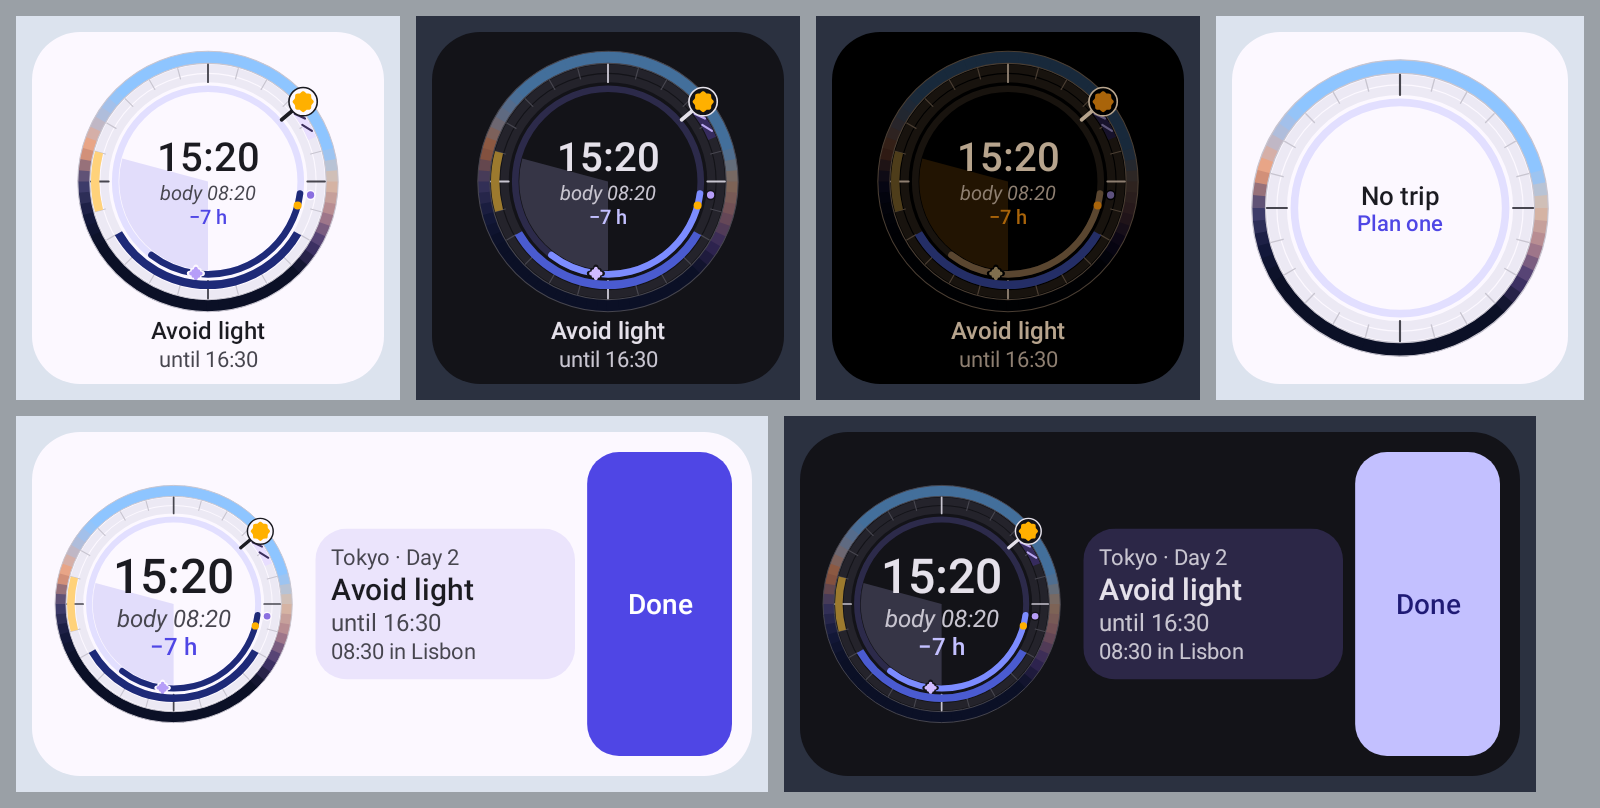
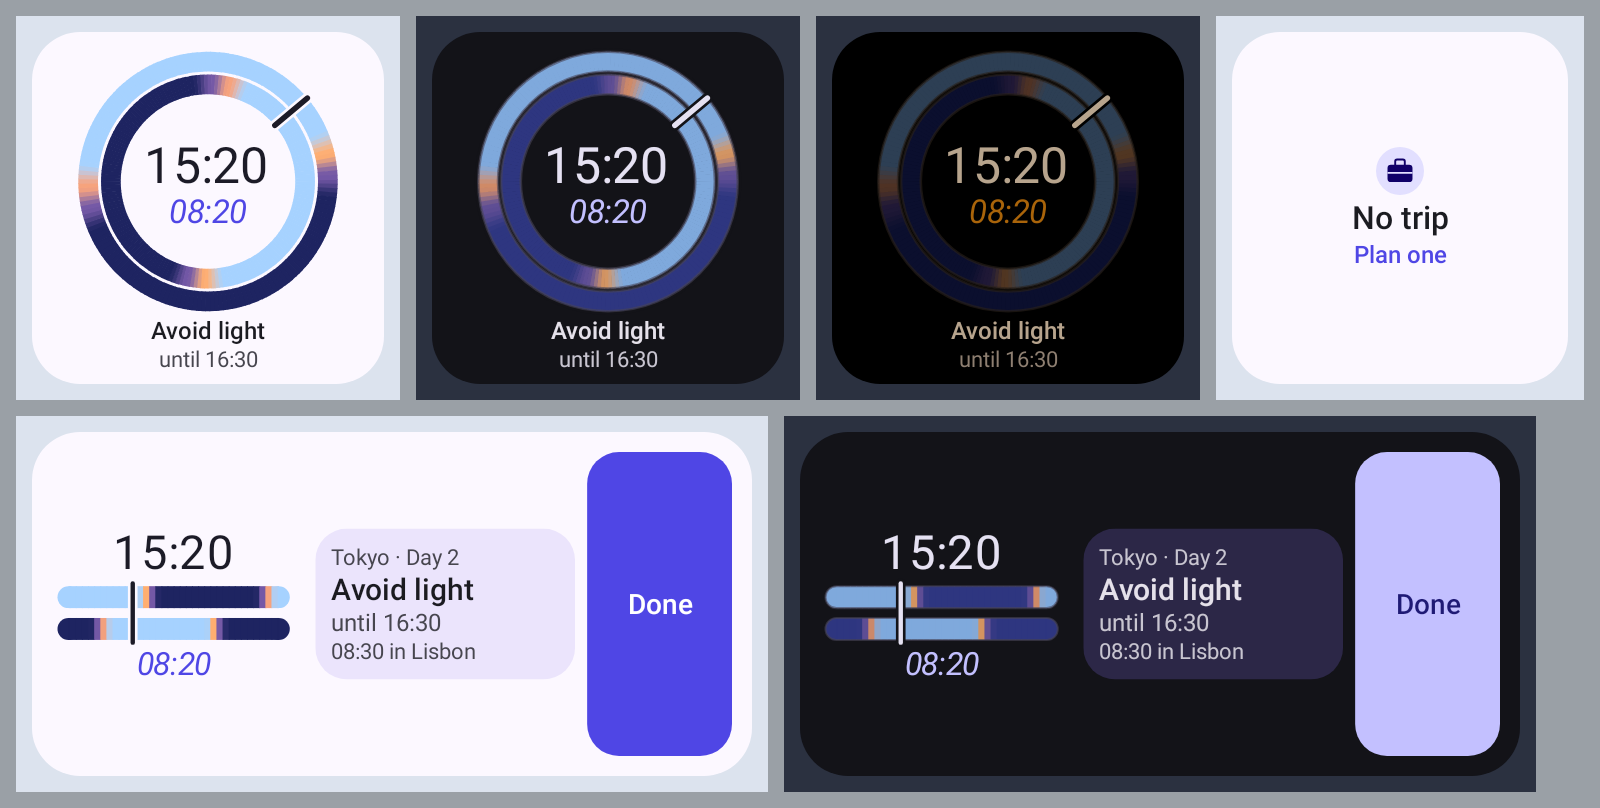
Docs: the widget dial in surfaces, design §A, the user guide and README
Refresh the widget screenshots, regenerate the user guide's Two Clocks image,
document the dial fit and contrast tests, and drop the orphaned
dial-widget-fonts sheet (remote_dial_vs_app.png replaces it).

diff --git a/docs/design.md b/docs/design.md
@@ -250,12 +250,21 @@ once you're adapted the two rings are identical.
   block boundaries, and a dot keeps the real now. Tap the centre to return.
 - **A11y:** TalkBack: "14:20 local. Your body clock is 09:56. Now: see bright light until 15:00. Next: …" Custom
   actions *Next block*, *Previous block*, *Back to now*.
-- **Spec and renderer:** `TwoSkies.spec()` in `dial/spec` is pure Kotlin (no Android UI types) and returns a list of
-  `DialOp`s in dp. `drawDialSpec()` paints them with Compose; a Remote Compose widget can paint the same list. Notes
-  for that port: the sky rings are `SweepRing`s with `segments()` (Remote Compose has no sweep shader from Kotlin),
-  curved text needs `drawTextOnCircle` (to verify), only the needle animates, and widgets use the system font. See
-  `dial_widget_fonts.png` in the designsystem goldens for the app font next to the system font. Small widgets get a
-  separate "Two strips" layout (Phase 2 of #46).
+- **Spec and renderers:** `TwoSkies.spec()` in `dial/spec` is pure Kotlin (no Android UI types) and returns a list of
+  `DialOp`s in dp. `drawDialSpec()` paints them with Compose in the app; the Two Clocks widget replays the same list
+  into a Remote Compose canvas (`widget/…/rc/RemoteDialSpec.kt`). The widget port draws the sky rings and bars as
+  constant-colour segments (Remote Compose has no shader from Kotlin), sets curved and tracked text glyph by glyph
+  (`drawTextOnCircle` is still unverified on a real launcher), rounds weights to regular or bold (the system font's
+  four styles), and leaves out the wash behind the needle. Only the needle moves with the launcher's clock, and the
+  readouts are written from it. A host can set a text floor (`minText`, 7 dp on widgets): the AM/PM marker and the
+  ring labels hold it and the digits give way. `remote_dial_vs_app.png` in the widget goldens shows the two
+  renderers side by side.
+- **Two strips** (`TwoStrips.spec()`): the same two skies as two horizontal bars over a window round now, local on
+  top and body below, with a now line across both. Widgets use them where a round dial gets too small to read: the
+  1×1, the 2×1 and 4×1 rows and the 2×2 landscape card. The app keeps Two skies as its hero. Levels go by the box:
+  under 150 dp wide is Glance (local time, the bars, and body time where it fits), wide boxes are Simple (bar labels,
+  the jet lag in a pill and, on a tall enough box, the advice with its name beside its capsule), and 280×128 dp up is
+  Full (narration). A glyph never shows without its name.
 
 ### B. Day timeline ("Rail")
 Vertical rail (Structured-style). Each advice block is a capsule whose **height = duration**. A leading shape glyph sits in an advice-colour container. The rail background is a faint **body-clock sky gradient**, so you *see* that your body is at "night" while the local label says 14:00. The current block expands into the **Now card** with a `CircularWavyProgressIndicator` countdown ring around its glyph. A dual time column shows local time plus a muted secondary tz; tapping the column header cycles Local / Home / Destination / Body.
@@ -434,7 +443,7 @@ Never guilt; skipping shows the cost, then moves on.
 | Widget | Size (cells) | Content | Notes |
 |---|---|---|---|
 | **Next up** ⭐ | 2×1 → 4×1 (responsive) | Shape glyph in advice container · **"Avoid light"** (titleMediumEmphasized) · "until 18:00 · then Sleep" · ticking "42m" at 4×1 | Tap → Plan scrolled to Now. A 1×1 variant shows just the glyph + "42m" |
-| **Two Clocks** | 2×2 (square, shaped) | Mini dial bitmap: local ring, body ring, advice arcs, hand. "+5 h" centre chip | Render with Canvas to `Bitmap` in a worker; keep it small (≈ 2×2 cells at device density) to stay under RemoteViews bitmap memory limits |
+| **Two Clocks** | 1×1 → 4×3 (responsive) | The Two skies dial (2×2, 2×3, 4×3) or the Two strips (1×1, 2×1, 4×1, 2×2 landscape) from the app's dial spec, with the now card and Done on larger sizes | Shipped as a Remote Compose document (see A); the needle and readouts follow the launcher's clock |
 | **Today ribbon** | 4×2 | Next 4 blocks as capsules on a horizontal rail (the current one filled and larger) + body-time chip + day label ("Arrival +1") | Each capsule deep-links to its card |
 | **Trip countdown** | 2×2 / 3×2 | Before: "Tokyo · in 3 days · adjustment starts tomorrow 07:00" + mini great-circle. After landing: "Day 2 · 60% adapted" + static wavy line whose amplitude shrinks daily | Becomes a "Clockblocked ✓" Flower state when adapted |
 | **Quick actions** (v1.x) | 2×1 toolbar | [I'm delayed] [Can't do this] [Light meter] | Toolbar canonical layout |

diff --git a/user-guide/widgets-and-notifications.md b/user-guide/widgets-and-notifications.md
@@ -81,14 +81,22 @@ you want onto the screen. You can resize both widgets.
 
 ### Two Clocks
 
-<img src="images/widget-two-clocks.png" alt="Two Clocks widgets. Top row: the small dial in light, dark and night-safe (black and amber), showing 15:20 local time, body 08:20, −7 h, and Avoid light until 16:30, then the empty state: No trip, Plan one. Bottom row: the wide version in light and dark, with a card saying Tokyo · Day 2, Avoid light until 16:30, then Melatonin, 08:30 in Lisbon, and a Done button." width="480" />
+<img src="images/widget-two-clocks.png" alt="Two Clocks widgets. Top row: the round dial in light, dark and night-safe (black and amber). Two rings of sky, a needle, 15:20 local time and 08:20 body time in the middle, and Avoid light until 16:30 underneath. Then the empty state: No trip, Plan one. Bottom row: the wide version in light and dark, with two bars of sky crossed by a line at now, 15:20 above and 08:20 below, a card saying Tokyo · Day 2, Avoid light until 16:30, 08:30 in Lisbon, and a Done button." width="480" />
 
-The *Two Clocks* widget is a small version of the dial in the app. It shows the local time, the time your body
-clock thinks it is ("body 08:20"), the gap between them ("−7 h": your body is 7 hours behind), and the current
-block with its end time. The outer ring follows the sky through the day. The bigger sizes add a card with the
-place and plan day ("Tokyo · Day 2"), what comes next, the time in your other time zone, and a **Done** button.
-The biggest size also shows your route ("LIS → HND"), lists the next blocks (with their time in your other zone)
-and shows how far you've adapted.
+The *Two Clocks* widget draws the same two skies as the dial in the app (see
+[Following your plan](following-your-plan.md)). The outer ring is the sky where you are, and the inner ring is the
+sky your body thinks it is under. The needle points at the local time. In the middle are the local time and, in
+italics, the time your body clock thinks it is ("08:20").
+
+Where a round dial would be too small, the widget shows the two skies as two bars instead: the top bar is the sky
+where you are, the bottom bar is your body's sky, and a line crosses both at now. That's the smallest size, the
+one-row sizes, and wide sizes that are only two rows tall.
+
+Most sizes also show the current block with its end time ("Avoid light until 16:30"). The wide rows name the
+nights ("Tokyo night") and say how far behind or ahead your body is ("7 h behind"). Bigger sizes add a card with
+the place and plan day ("Tokyo · Day 2"), the time in your other time zone, and a **Done** button. The biggest size
+also shows your route ("LIS → HND"), lists the next blocks (with their time in your other zone) and shows how far
+you've adapted.
 
 ### Next up
 

diff --git a/docs/surfaces.md b/docs/surfaces.md
@@ -366,6 +366,15 @@ drops only at 1.3×, that "Up next" never keeps a row the now block needs, and t
 larger than itself. The `remote_labels_*` goldens show every real label, and the `remote_minimums_*` goldens show
 each layout at its minimum size with the longest texts.
 
+Text on the dial follows the same rule.
+[`WidgetDialFitTest`](../widget/src/test/kotlin/dev/sebastiano/clockblocker/opus/widget/rc/WidgetDialFitTest.kt)
+lays out the dial of every Two Clocks layout at its minimum and checks that each piece of text stays inside its
+region, overlaps no other text and is at least 7 dp tall. It runs at mdpi, xhdpi and xxhdpi, at 1× and 1.3×, in
+12 h and 24 h, at several hours of the day, for each demo plan, on the home screen and redacted. It also checks the
+level each layout gets, that the needle and both clocks are always there, and that a redacted dial names no place.
+[`WidgetDialContrastTest`](../widget/src/test/kotlin/dev/sebastiano/clockblocker/opus/widget/rc/WidgetDialContrastTest.kt)
+checks the dial's ink against its face and skies in every widget palette.
+
 The route ("LIS → HND") uses the same dot-matrix IATA codes as the app's trip cards
 ([`RouteStrip`](../widget/src/main/kotlin/dev/sebastiano/clockblocker/opus/widget/draw/RouteStrip.kt) draws the
 designsystem's `DotMatrixFont` cells). It shows only where it has room without crowding the times: in the 4×3 Two
@@ -389,7 +398,7 @@ What a screen reader hears matches what the widget shows:
   [`RemoteSemanticsTest`](../widget/src/test/kotlin/dev/sebastiano/clockblocker/opus/widget/RemoteSemanticsTest.kt)
   plays the documents in the View player and reads back its accessibility nodes.
 
-![Two Clocks at 1×1, 2×3, 4×2 and 4×3, including night-safe, a logged Done and the adaptation bar](screenshots/widgets/remote_two_clocks_buckets.png)
+![Two Clocks in every layout: the Two strips at 1×1, in the 1×1 landscape, 2×1 and 4×1 rows (the wide ones with sky labels and "7 h behind") and beside the now card at 2×2 landscape; the Two skies dial at 2×3 and 4×3; including night-safe, a logged Done and the adaptation bar](screenshots/widgets/remote_two_clocks_buckets.png)
 
 ![Next up at 2×2, 2×3, 4×2 and 4×3, including "Skipped" and "✓ Done" chips and the adapted state](screenshots/widgets/remote_next_up_buckets.png)
 

diff --git a/README.md b/README.md
@@ -59,11 +59,11 @@ To use the app, read the [user guide](user-guide/README.md). To understand or ch
 - JSON backup and restore, and calendar (ICS) export of any plan.
 
 <p align="center">
-  <img src="docs/screenshots/widgets/remote_two_clocks.png" alt="Two Clocks widgets: the small dial in light, dark and night-safe shows 15:20 local, body 08:20, −7 h, with Avoid light until 16:30, next to the empty state, No trip, Plan one; below, the wide version adds a Tokyo · Day 2 card and a Done button" width="48%" />
+  <img src="docs/screenshots/widgets/remote_two_clocks.png" alt="Two Clocks widgets: the Two skies dial in light, dark and night-safe shows 15:20 local and 08:20 body time, with Avoid light until 16:30, next to the empty state, No trip, Plan one; below, the wide version shows the two skies as two bars beside a Tokyo · Day 2 card and a Done button" width="48%" />
   <img src="docs/screenshots/plan-tablet.png" alt="The plan on a tablet in landscape: the header and day strip, the dial and a See bright light Now card on the left, the Day 2 timeline on the right" width="48%" />
 </p>
 
-The *Two Clocks* widget (left) shows the dial from the app on your home screen. On a tablet (right), the plan
+The *Two Clocks* widget (left) draws the app's dial on your home screen. On a tablet (right), the plan
 uses two columns: the day strip, the dial and the Now card beside the day's timeline.
 
 ## The science
